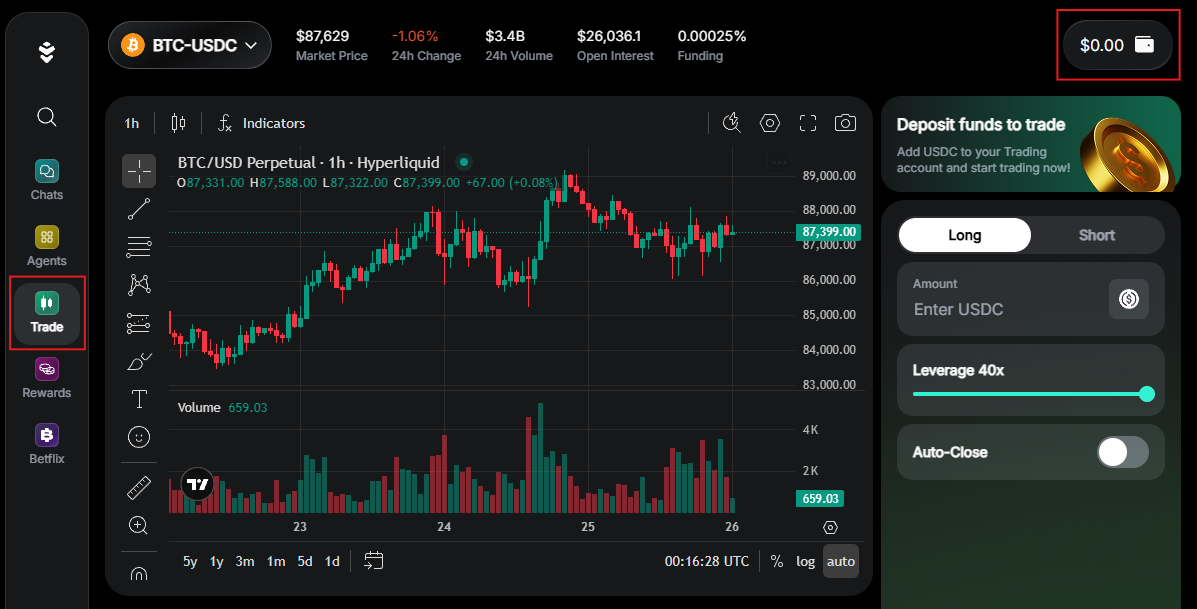
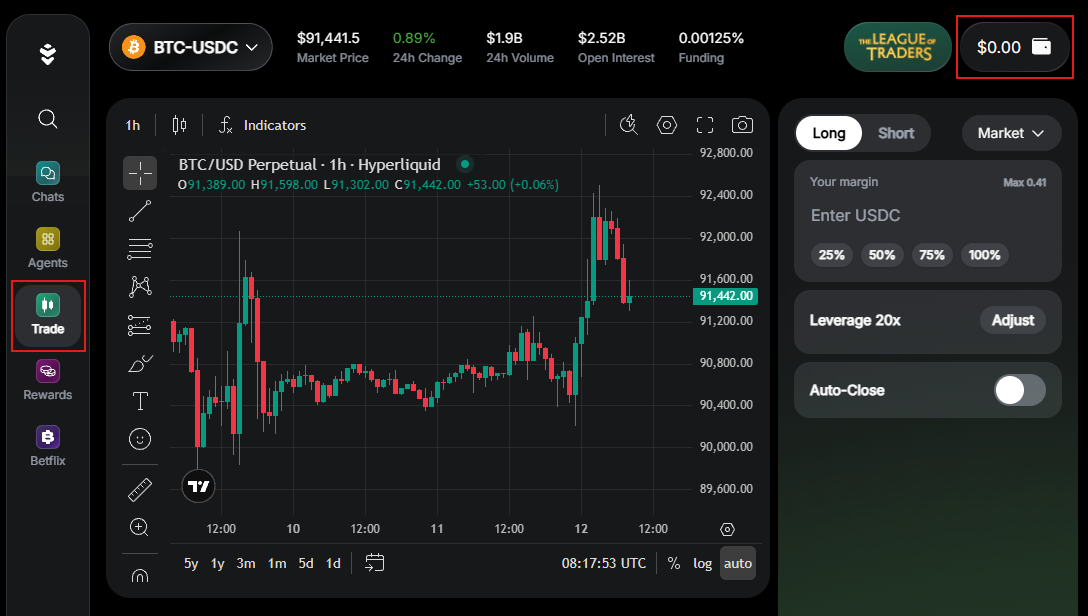
added info on the anime agent and other releases, updated screenshots, added info on trade pumps

diff --git a/docs/help-center/docs/warden-app/trade.md b/docs/help-center/docs/warden-app/trade.md
@@ -10,7 +10,7 @@ In Warden, you can use **perpetual contracts** (**trade perps**) to trade on fut
 
 Warden's **AI Trading Terminal** brings real-time market analysis tools directly into your trading screen so you make informed decisions before placing a trade. This includes AI signals, an order book, and a chart with technical indicators and drawing tools.
 
-This guide explains how to open and manage your positions, manage the trading wallet, and use market analysis tools. To learn more about perps and the related concepts, see [Perpetual trading](#perpetual-trading).
+This guide explains how to open and manage your positions, manage the trading wallet, and use market analysis tools. To learn more about perps and the related concepts, see [Perpetual trading glossary](#perpetual-trading-glossary).
 
 :::warning
 Perpetual Trading involves significant risk, including potential loss of all funds due to leverage and volatility, and may not suit all users.
@@ -30,10 +30,11 @@ Want to trade just for fun? Try [Betflix](play-betflix).
 You'll see the Terminal interface, where you can do the following:
 
 1. Select a perp to trade
-2. [Manage the trading wallet](#manage-the-trading-wallet)
-3. [Analyze the market](#analyze-the-market)
-4. [Create an order](#2-create-an-order)
-5. [Manage your trade](#3-manage-your-trade)
+2. [Create an order](#2-create-an-order)
+3. [Manage your trade](#3-manage-your-trade)
+4. [Analyze the market](#analyze-the-market)
+5. [Earn PUMPs](#earn-pumps)
+6. [Manage the trading wallet](#manage-the-trading-wallet)
 
 ![AI Trading Terminal in Warden](../../static/img/warden-app/trade-terminal.png)
 
@@ -164,7 +165,20 @@ Top traders earn [PUMPs](earn-rewards#earn-pumps)—points that reward your acti
 - Weekly Pnl & Volume leagues: 1st–5th ranks
 - Monthly Pnl & Volume leagues: 1st–5th ranks
 
-[Check your stats](#check-your-stats) in the trading wallet to view all leaderboards and the exact rewards.
+To view all leaderboards and the exact rewards, [check your trading wallet](#check-your-stats) or click the League of Traders icon at the top right:
+
+![Access the Pro League of Traders in Warden](../../static/img/warden-app/trade-pumps.png)
+
+:::note Notes
+- You earn a reward in PUMPs each time your position is closed. Distributions run every 15 minutes, so leaderboard stats may update with a delay.
+- Reward = **trade volume x 30 (1$ = 30 PUMPs) x a multiplier**.
+- Trade volume = **price x size x leverage**.
+- The multiplier is based on your all-time total trade volume:
+  - 1x for volume > 100
+  - 2x for volume > 500
+  - 3x for volume > 1000
+  - 5x for volume > 10000
+:::
 
 ## Manage the trading wallet
 
@@ -227,7 +241,9 @@ In the trading wallet, you can also view your statistics:
   - To see rewards for each rank, click the information icon next to the winners list.
 - The **Activity** tab displays your activity in the wallet.
 
-## Perpetual trading
+![Check trading stats in Warden](../../static/img/warden-app/trade-wallet-3.png)
+
+## Perpetual trading glossary
 
 #### Trade perp
 

diff --git a/docs/help-center/docs/warden-app/whats-new.md b/docs/help-center/docs/warden-app/whats-new.md
@@ -8,11 +8,31 @@ sidebar_position: 10
 
 Here you'll find the latest Warden release highlights, including new features, improvements, and bug fixes. This section helps you quickly see what's changed and how it can enhance your experience.
 
+## January 7, 2026
+
+#### New features
+
+- [Intelligent DCA](explore-ai-agents#intelligent-dca): Added ability to permanently remove Uniswap/DCA tasks from workflows. Task lists automatically filter out previously removed tasks.
+
+#### Fixes
+
+- [Agent Hub](explore-ai-agents#access-agents): A minor UI fix.
+- [Messari Deep Research](explore-ai-agents#messari-deep-research): Resolved an issue with conversation history handling.
+
 ## December 30, 2025
 
 #### New features
 
 - [Trading](trade): Introduced the [League of Traders](trade#earn-pumps) with PUMP rewards.
+- [Anime Agent](explore-ai-agents#anime-agent): Added a new Agent generating images in anime style.
+
+#### Fixes
+
+- [Trading](trade): Fixed an issue with deposit/withdraw history.
+- [Betflix](play-betflix): Fixed issues with the bet amount selection.
+- Other:
+  - Resolved errors caused by logging in with a passkey.
+  - Corrected token price fetching and handling.
 
 ## December 23, 2025
 
@@ -33,7 +53,8 @@ Here you'll find the latest Warden release highlights, including new features, i
 #### New features
 
 - [The Agent Hub](explore-ai-agents): Introduced the **Community** tab where you can access Community Agents built by our developer community.
-- [Community Agents](explore-ai-agents#community-agents): Added [Crypto Research by Caesar](explore-ai-agents#crypto-research-by-caesar) and [Deep Research by Caesar](explore-ai-agents#deep-research-by-caesar).
+- [Crypto Research by Caesar](explore-ai-agents#crypto-research-by-caesar): Added a new Agent for crypto research.
+- [Deep Research by Caesar](explore-ai-agents#deep-research-by-caesar): Added a new Agent for advanced research and data interpretation.
 - [Agents Credits](manage-your-wallets#agents-credits): Added a wallet holding credits for Agents.
 
 ## December 17, 2025

diff --git a/docs/help-center/docs/warden-app/play-betflix.md b/docs/help-center/docs/warden-app/play-betflix.md
@@ -57,7 +57,10 @@ Top traders earn [PUMPs](earn-rewards#earn-pumps)—points that reward your acti
 - Daily league: 1st–5th ranks
 - Weekly league: 1st–5th ranks
 
-[Check your stats](#check-your-stats) in the Betflix wallet to view all leaderboards and the exact rewards.
+To view all leaderboards and the exact rewards, [check your Betflix wallet](#check-your-stats) or click the League of Traders icon at the top right:
+
+![Access the Betflix League of Traders in Warden](../../static/img/warden-app/play-betflix-2.png)
+
 
 ## Manage the Betflix wallet
 
@@ -92,4 +95,4 @@ In the Betflix wallet, you can also view the game statistics:
   - To see rewards for each rank, click the information icon next to the winners list.
 - The **Bets** tab displays your recent plays and results.
 
-![Check Betflix stats in Warden](../../static/img/warden-app/play-betflix-2.png)
+![Check Betflix stats in Warden](../../static/img/warden-app/play-betflix-5.png)

diff --git a/docs/help-center/docs/warden-app/explore-ai-agents.md b/docs/help-center/docs/warden-app/explore-ai-agents.md
@@ -225,6 +225,12 @@ Fees: [WachAI fee](fees#wachai-fee).
 
 **Community Agents** are AI Agents built by our developer community. [You can participate too!](https://wardenprotocol.org/blog/agent-builder-incentive-programme)
 
+### Anime Agent
+
+The **Anime Agent** generates images in anime style. You can use it to instantly design anime heroes, waifus, battles, and fantasy landscapes.
+
+Fees: none.
+
 ### Crypto Research by Caesar
 
 **Crypto Research by Caesar** integrates with the [Caesar API](https://docs.caesar.xyz/get-started/introduction) to deliver in-depth analysis of projects, trends, and blockchain data for smarter decisions.
@@ -292,7 +298,6 @@ For active portfolio management that integrates analytics with automated investm
 
 The Agent lineup keeps growing. Here's what to expect next:
 
-- **Anime Agent**
 - **Google Assistant**
 - **Travel**
 - **ApexLiquid**
